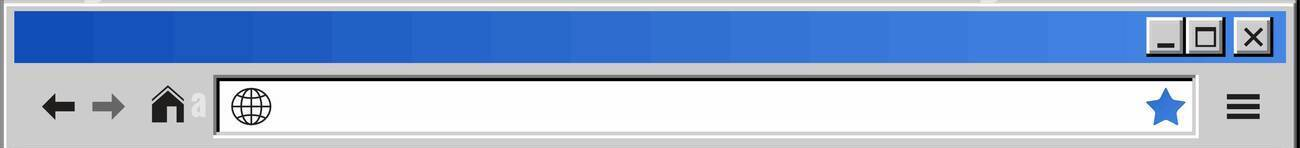
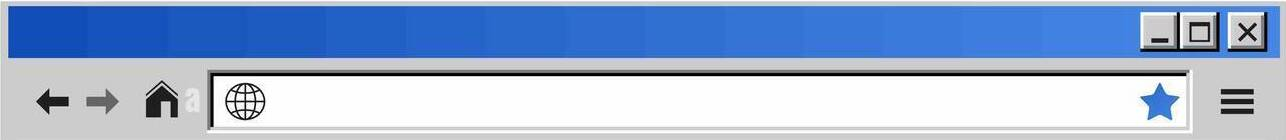
color updates, task bar halfway done, shadows

Changed region(s): [[0.0, 0.0, 1.0, 1.0]]

diff --git a/main.css b/main.css
@@ -1,13 +1,13 @@
 :root {
     --green: #d4ebd4;
-    --darkblue: #212743;
+    --darkblue: #224a94;
     --white: #ffffff;
     --black: #000000;
     --offblack: #4a4949;
     --offwhite: #efefef;
     --lightpink: #c9b0b0;
-    --grey: #7e7e7e;
-    --lightblue: #c0d0e4;
+    --grey: #cccccc;
+    --lightblue: #a6bedc;
 }
 
 * {
@@ -37,6 +37,8 @@ header {
     align-items: center;
     color: var(--headfontcolor);
     background-color: var(--headerbg);
+    box-shadow: 5px 3px  6px var(--headershadow);
+
 }
 
 header * {
@@ -104,6 +106,7 @@ ul {
     --btnBg: var(--black);
     --btnFontColor: var(--white);
     --headfontcolor: var(--white);
+    --headershadow: var(--offblack);
 }
 
 .dark-theme {
@@ -115,9 +118,10 @@ ul {
     --btnBg: var(--white);
     --btnFontColor: var(--black);
     --headfontcolor: var(--black);
+    --headershadow: var(--black);
 }
 
-img {
+.img {
     border: 1px solid var(--green);
     border-radius: 50%;
     position: relative;
@@ -128,10 +132,11 @@ img {
     height: 150px
   }
 
-img1 {
-    width: 100%;
-    position: relative;
-    top: 0px;
+.img1 {
+    width: 60.65%;
+    position: absolute;
+    left: 19.7%;
+    object-fit: cover;
 }
 
 .btn {

diff --git a/index.html b/index.html
@@ -18,11 +18,15 @@
             </ul>
         </nav>
     </header>
+    <h2>
+        <img src="assets/retro task bar.jpg" class="img1">
+    </h2>
     <div1>
     <h1>
-        <img src="assets/sample-profile.JPG" style="width:150px">
+        <img src="assets/sample-profile.JPG" style="width:150px" class="img">
         SADIE MANICOM
     </h1>
+
     <p id="msg" class="tasklist">current tasks:</p>
         <ul>
             <li class="list">**visuals**</li>
